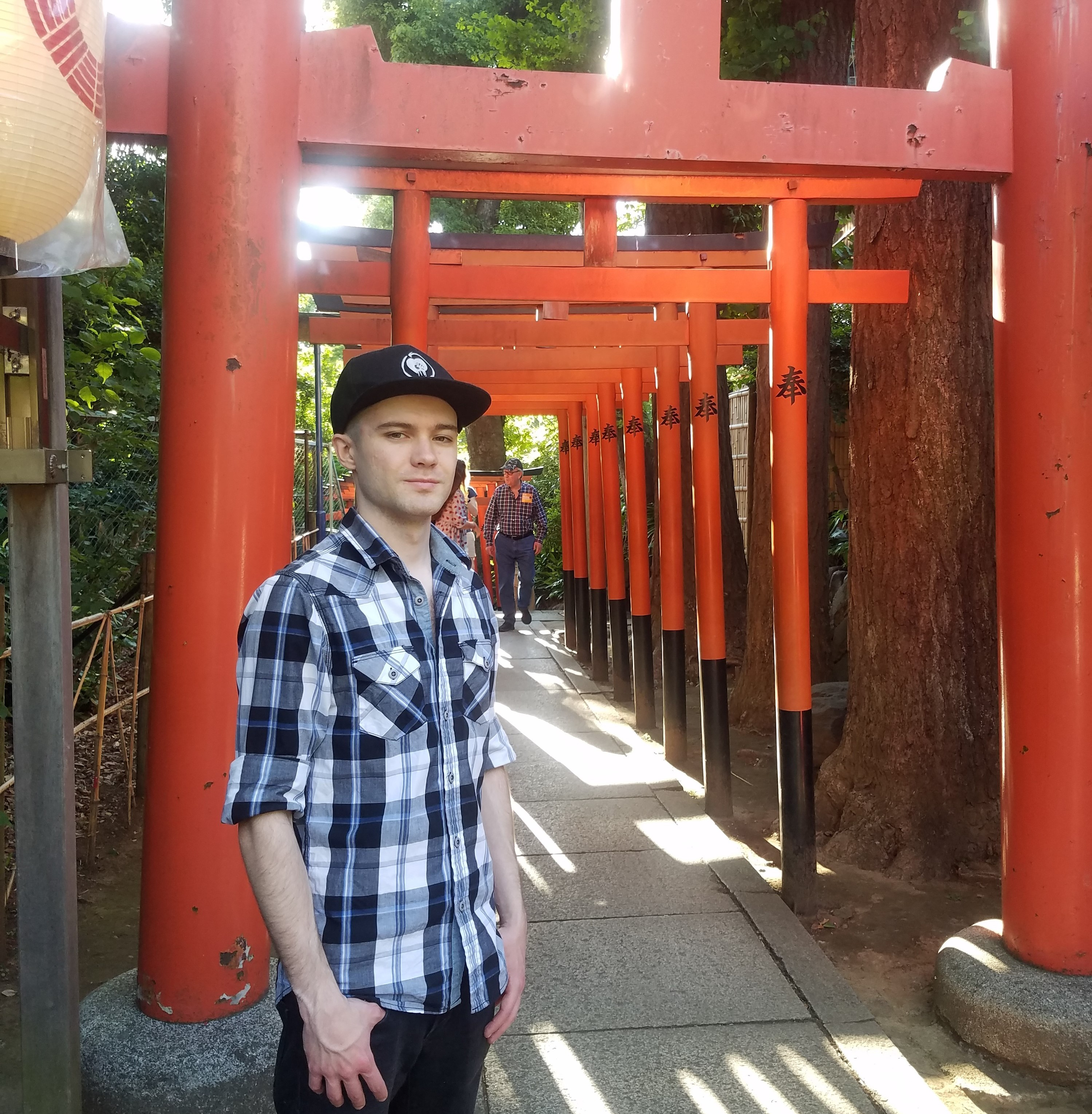
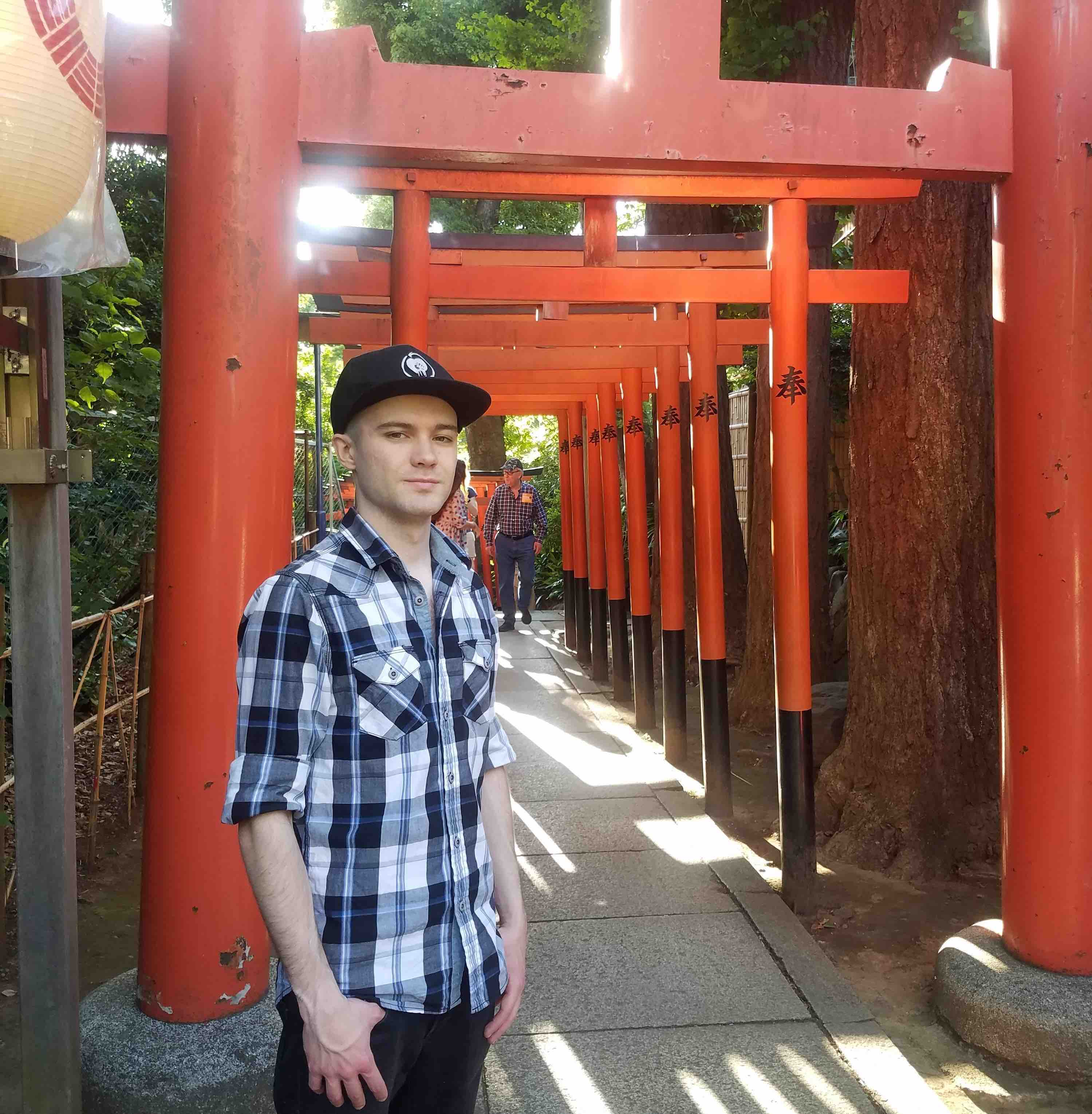
Reduce image file size to improve load time on slower networks
Also, update respective image file name in src code

Changed region(s): [[0.4652, 0.3727, 0.5272, 0.4658], [0.2791, 0.3106, 0.3101, 0.4037]]

diff --git a/src/components/Home/Productions/Productions.js b/src/components/Home/Productions/Productions.js
@@ -36,7 +36,7 @@ function Productions(props) {
                 className: 'bg-lighter'
             },
             {
-                image: 'anime_atsume.png',
+                image: 'anime_atsume.jpg',
                 title: <Link className={'text-light'} href={LINKS.AnimeAtsume}>Anime Atsume</Link>,
                 description: 'Aggregator for searching and watching anime'
             }
